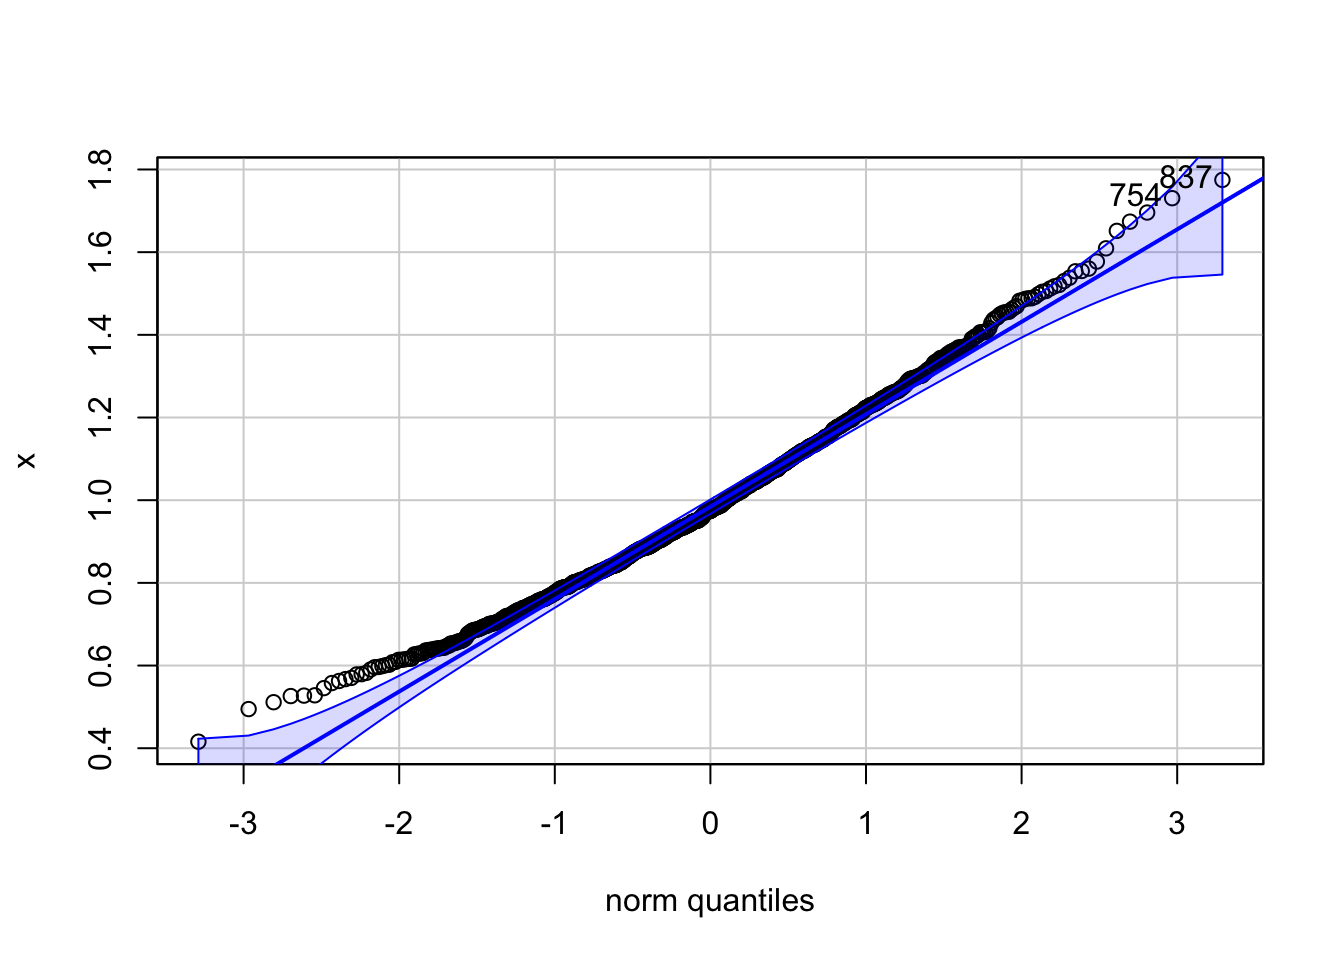
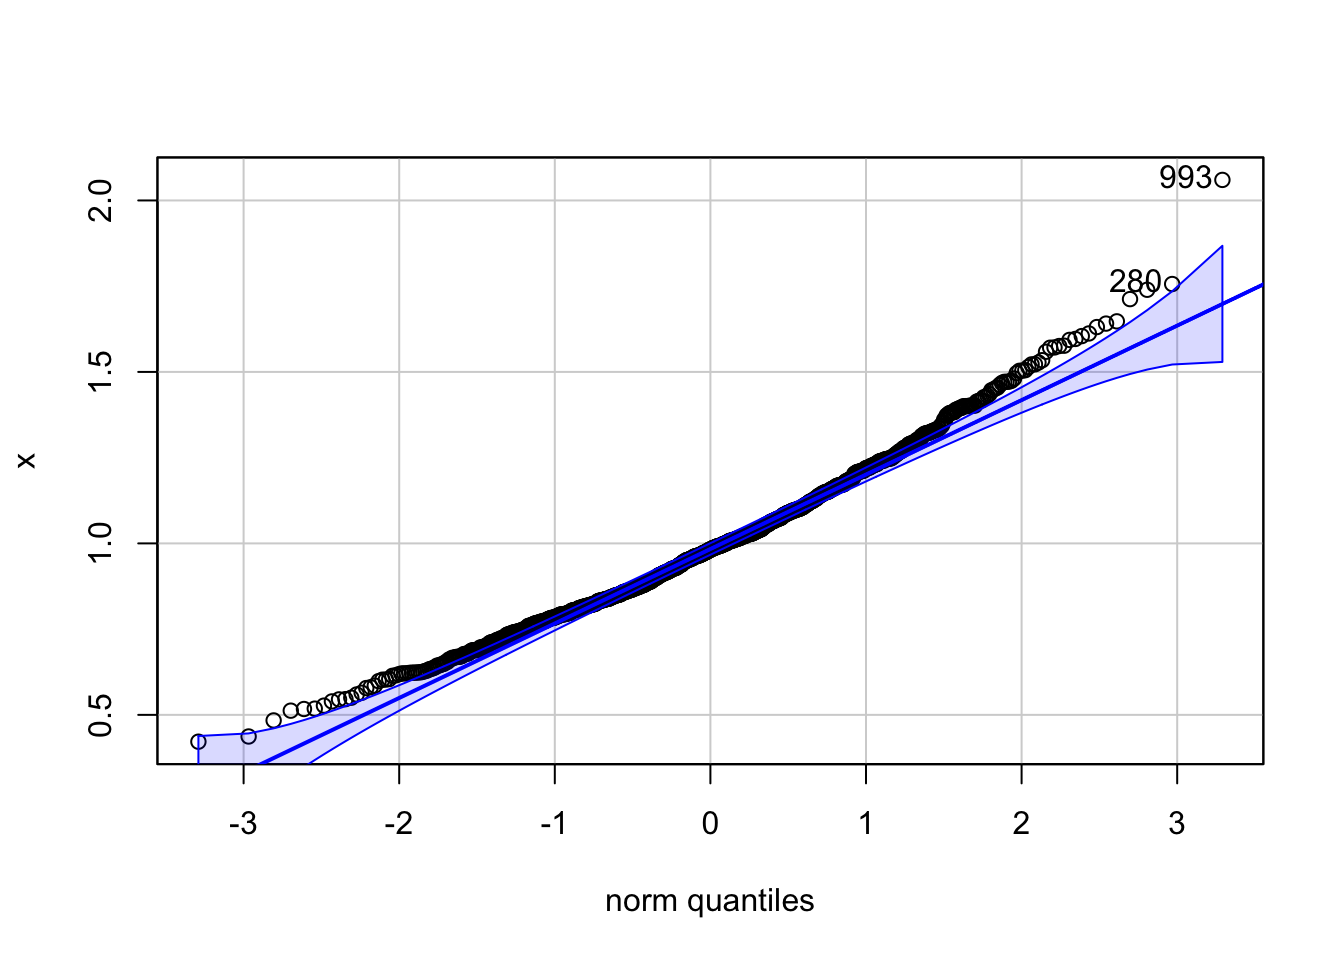
Minor edits

diff --git a/probability_sims.html b/probability_sims.html
@@ -95,17 +95,22 @@ pre > code.sourceCode > span > a:first-child::before { text-decoration: underlin
 </header>
 
 <div class="cell">
-<div class="sourceCode cell-code" id="cb1"><pre class="sourceCode r code-with-copy"><code class="sourceCode r"><span id="cb1-1"><a href="#cb1-1" aria-hidden="true" tabindex="-1"></a><span class="fu">library</span>(tidyverse)</span></code><button title="Copy to Clipboard" class="code-copy-button"><i class="bi"></i></button></pre></div>
+<div class="sourceCode cell-code" id="cb1"><pre class="sourceCode r code-with-copy"><code class="sourceCode r"><span id="cb1-1"><a href="#cb1-1" aria-hidden="true" tabindex="-1"></a><span class="fu">library</span>(tidyverse)</span>
+<span id="cb1-2"><a href="#cb1-2" aria-hidden="true" tabindex="-1"></a><span class="fu">set.seed</span>(<span class="dv">1</span>)</span></code><button title="Copy to Clipboard" class="code-copy-button"><i class="bi"></i></button></pre></div>
 </div>
 <section id="law-of-large-numbers" class="level2">
 <h2 class="anchored" data-anchor-id="law-of-large-numbers">Law of large numbers</h2>
 <div class="cell">
 <div class="sourceCode cell-code" id="cb2"><pre class="sourceCode r code-with-copy"><code class="sourceCode r"><span id="cb2-1"><a href="#cb2-1" aria-hidden="true" tabindex="-1"></a>flips <span class="ot">&lt;-</span> <span class="fu">sample</span>(<span class="fu">c</span>(<span class="st">"heads"</span>, <span class="st">"tails"</span>), <span class="at">size =</span> <span class="dv">500</span>, <span class="at">replace =</span> <span class="cn">TRUE</span>)</span>
-<span id="cb2-2"><a href="#cb2-2" aria-hidden="true" tabindex="-1"></a><span class="fu">plot</span>(<span class="fu">cumsum</span>(flips <span class="sc">==</span> <span class="st">"heads"</span>) <span class="sc">/</span> (<span class="dv">1</span><span class="sc">:</span><span class="fu">length</span>(flips)), </span>
-<span id="cb2-3"><a href="#cb2-3" aria-hidden="true" tabindex="-1"></a>     <span class="at">type =</span> <span class="st">"l"</span>, <span class="at">ylim =</span> <span class="fu">c</span>(<span class="dv">0</span>,<span class="dv">1</span>),  </span>
-<span id="cb2-4"><a href="#cb2-4" aria-hidden="true" tabindex="-1"></a>     <span class="at">main =</span> <span class="st">"Coin Flips"</span>, </span>
-<span id="cb2-5"><a href="#cb2-5" aria-hidden="true" tabindex="-1"></a>     <span class="at">xlab =</span> <span class="st">"Number of flips"</span>, <span class="at">ylab =</span> <span class="st">"Proportion of heads"</span>)</span>
-<span id="cb2-6"><a href="#cb2-6" aria-hidden="true" tabindex="-1"></a><span class="fu">abline</span>(<span class="at">h =</span> <span class="fl">0.5</span>, <span class="at">col =</span> <span class="st">"red"</span>)</span></code><button title="Copy to Clipboard" class="code-copy-button"><i class="bi"></i></button></pre></div>
+<span id="cb2-2"><a href="#cb2-2" aria-hidden="true" tabindex="-1"></a></span>
+<span id="cb2-3"><a href="#cb2-3" aria-hidden="true" tabindex="-1"></a><span class="fu">plot</span>(<span class="fu">cumsum</span>(flips <span class="sc">==</span> <span class="st">"heads"</span>) <span class="sc">/</span> (<span class="dv">1</span><span class="sc">:</span><span class="fu">length</span>(flips)), </span>
+<span id="cb2-4"><a href="#cb2-4" aria-hidden="true" tabindex="-1"></a>     <span class="at">type =</span> <span class="st">"l"</span>,</span>
+<span id="cb2-5"><a href="#cb2-5" aria-hidden="true" tabindex="-1"></a>     <span class="at">ylim =</span> <span class="fu">c</span>(<span class="dv">0</span>,<span class="dv">1</span>),  </span>
+<span id="cb2-6"><a href="#cb2-6" aria-hidden="true" tabindex="-1"></a>     <span class="at">main =</span> <span class="st">"Coin Flips"</span>, </span>
+<span id="cb2-7"><a href="#cb2-7" aria-hidden="true" tabindex="-1"></a>     <span class="at">xlab =</span> <span class="st">"Number of flips"</span>,</span>
+<span id="cb2-8"><a href="#cb2-8" aria-hidden="true" tabindex="-1"></a>     <span class="at">ylab =</span> <span class="st">"Proportion of heads"</span>)</span>
+<span id="cb2-9"><a href="#cb2-9" aria-hidden="true" tabindex="-1"></a></span>
+<span id="cb2-10"><a href="#cb2-10" aria-hidden="true" tabindex="-1"></a><span class="fu">abline</span>(<span class="at">h =</span> <span class="fl">0.5</span>, <span class="at">col =</span> <span class="st">"red"</span>)</span></code><button title="Copy to Clipboard" class="code-copy-button"><i class="bi"></i></button></pre></div>
 <div class="cell-output-display">
 <p><img src="probability_sims_files/figure-html/unnamed-chunk-2-1.png" class="img-fluid" width="672"></p>
 </div>
@@ -128,7 +133,7 @@ pre > code.sourceCode > span > a:first-child::before { text-decoration: underlin
 <p><img src="probability_sims_files/figure-html/unnamed-chunk-3-1.png" class="img-fluid" width="672"></p>
 </div>
 <div class="cell-output cell-output-stdout">
-<pre><code>[1] 837 754</code></pre>
+<pre><code>[1] 993 280</code></pre>
 </div>
 <div class="sourceCode cell-code" id="cb5"><pre class="sourceCode r code-with-copy"><code class="sourceCode r"><span id="cb5-1"><a href="#cb5-1" aria-hidden="true" tabindex="-1"></a>normal.density <span class="ot">&lt;-</span> <span class="cf">function</span>(t) <span class="fu">dnorm</span>(t, <span class="fu">mean</span>(x), <span class="fu">sqrt</span>(<span class="fu">var</span>(x)))</span>
 <span id="cb5-2"><a href="#cb5-2" aria-hidden="true" tabindex="-1"></a></span>
